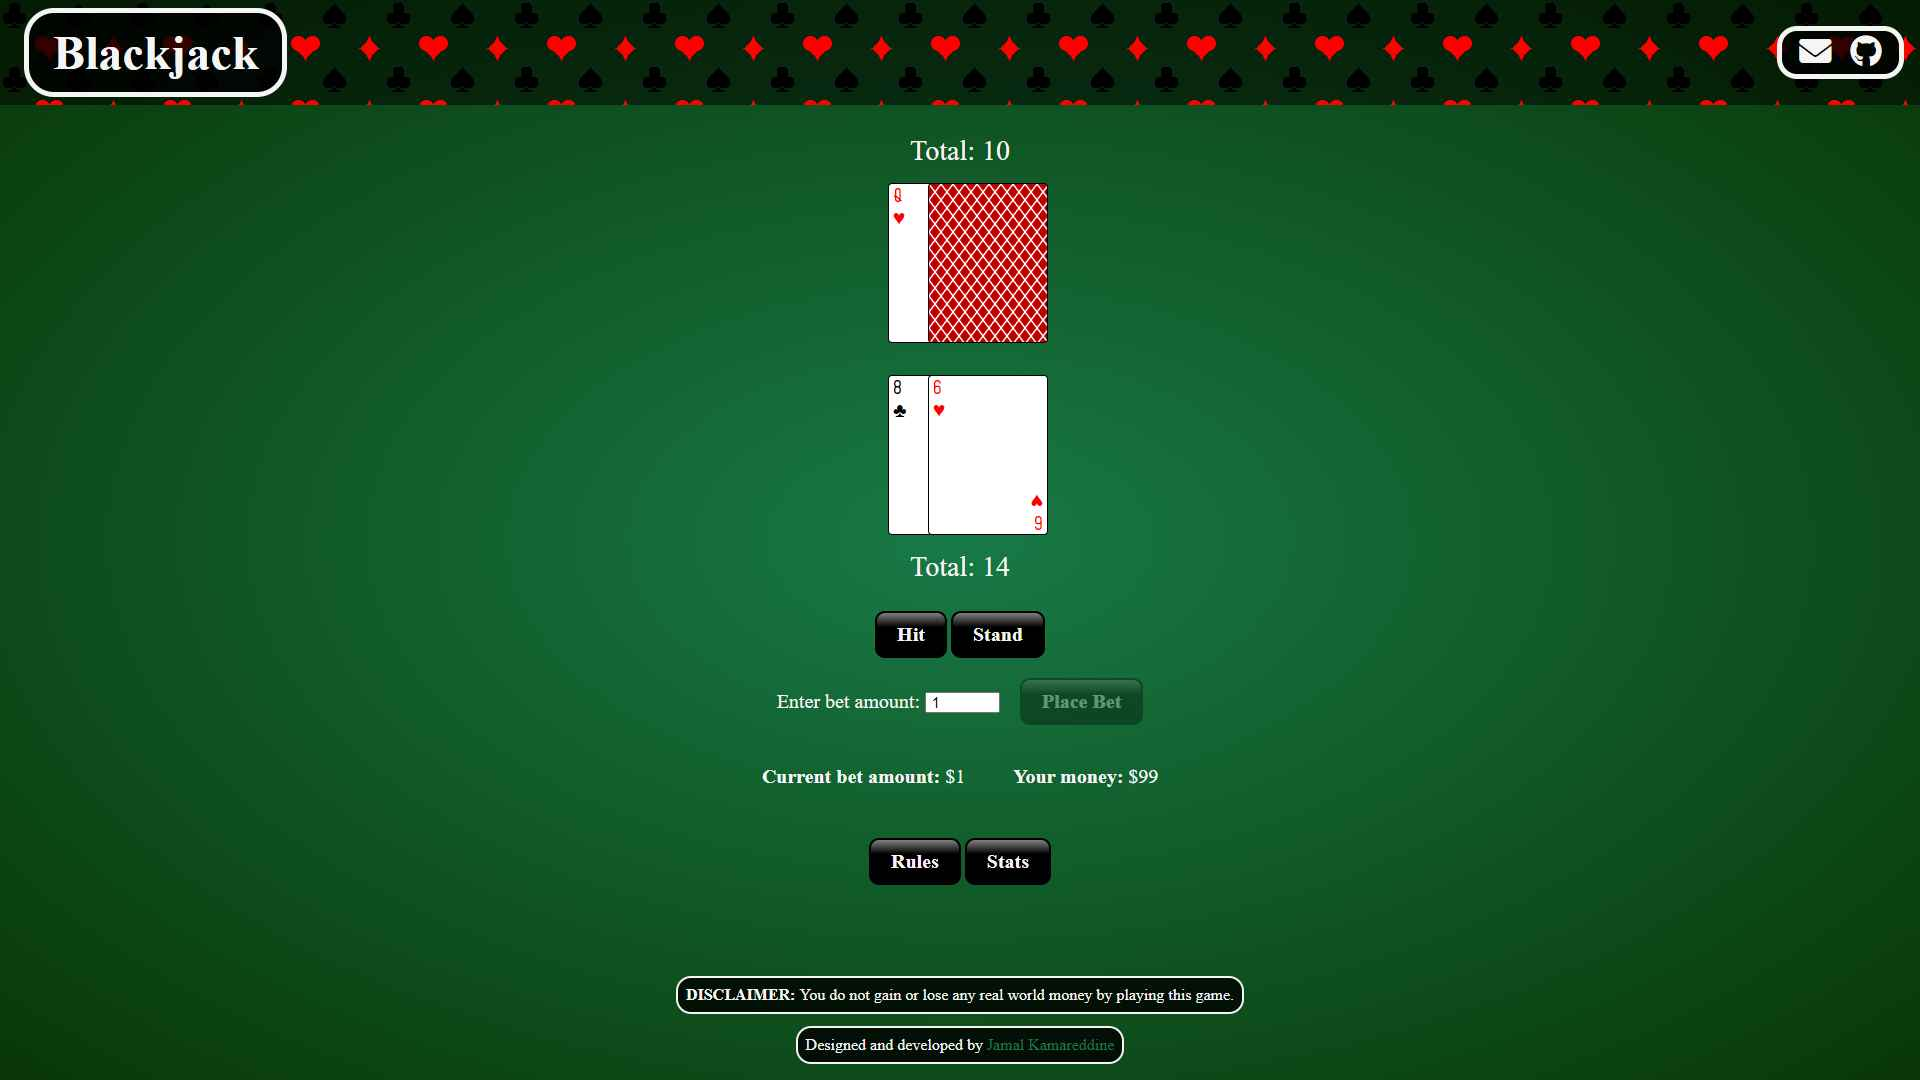
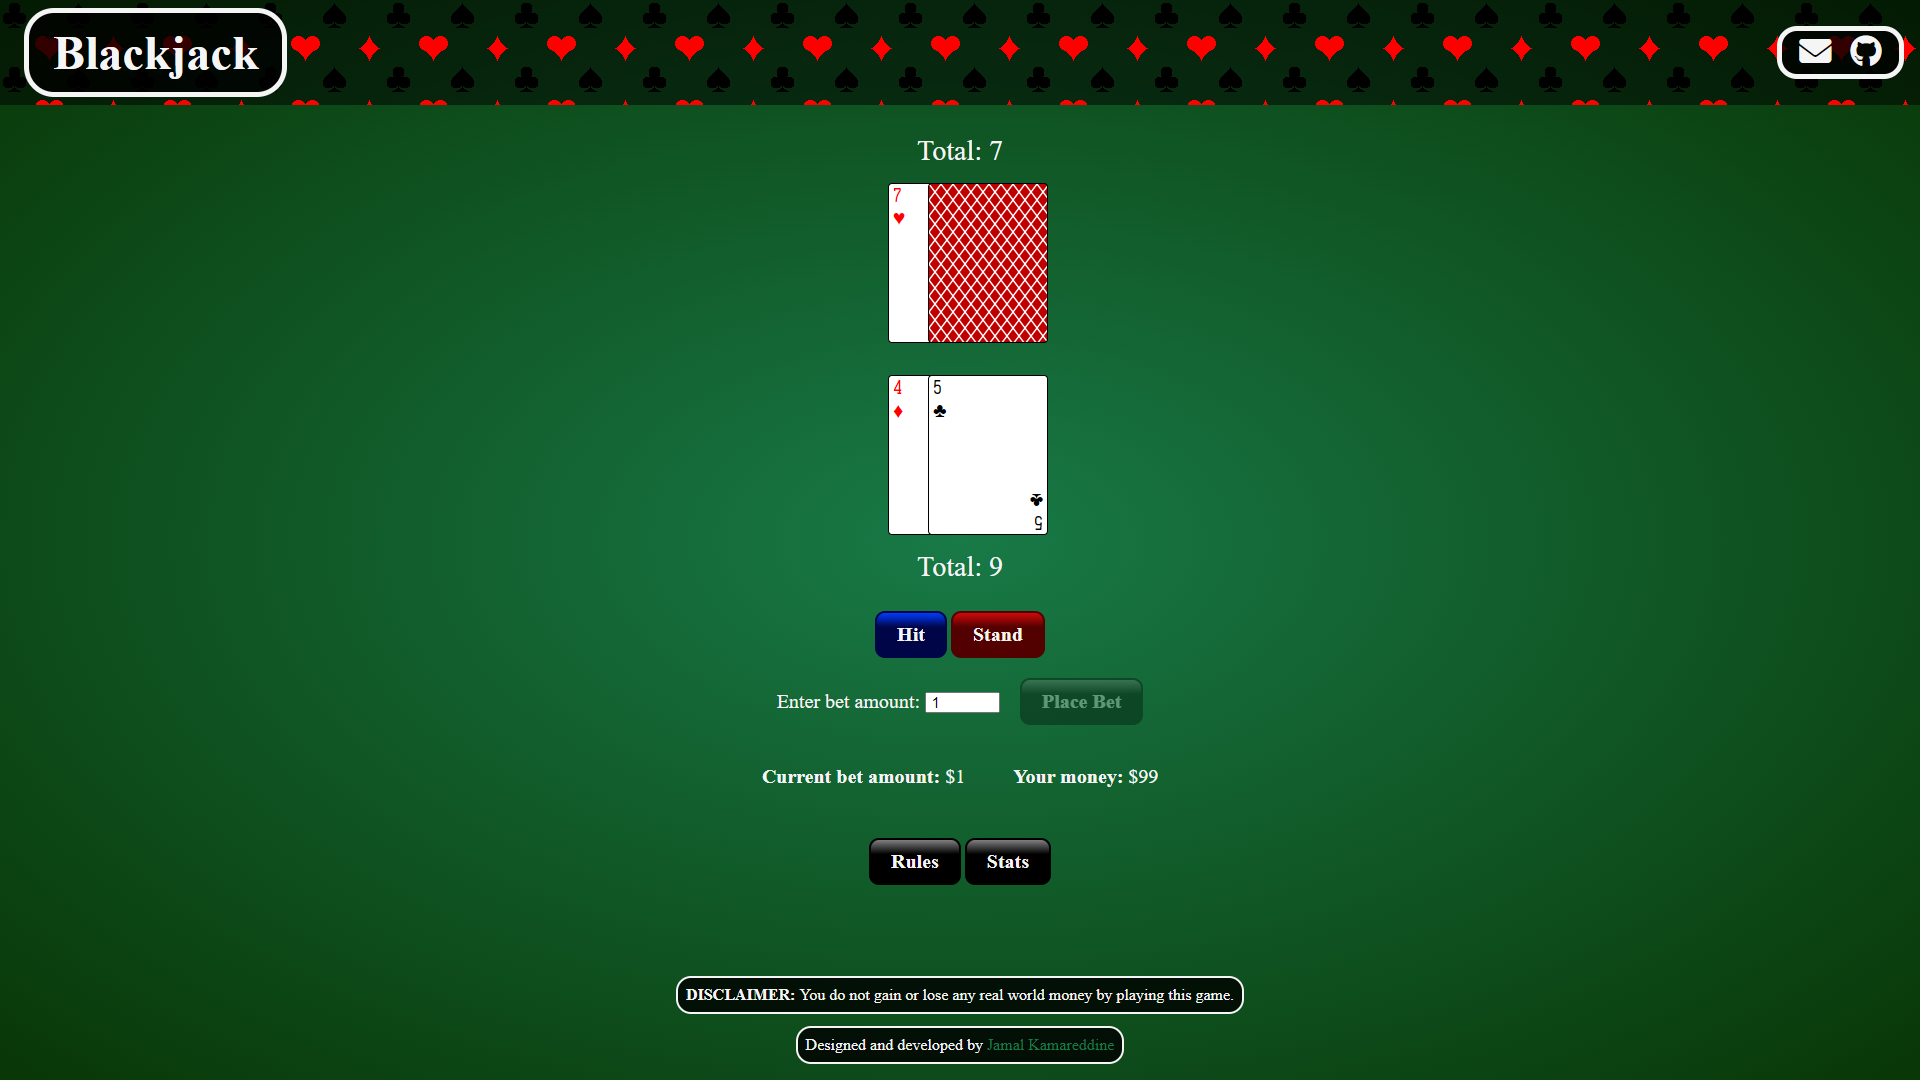
Added button to reset stats, changed color of hit & stand buttons

diff --git a/blackjack/style.css b/blackjack/style.css
@@ -1,6 +1,10 @@
 :root {
     --blackjack-color: #187a47;
     --blackjack-color-dark: #093606;
+    --btn-red: #cf0a0a;
+    --btn-dark-red: #530000;
+    --btn-blue: #003cff;
+    --btn-dark-blue: #000547;
 }
 
 html {
@@ -22,6 +26,16 @@ main {
 h1,
 h2 {
     font-size: 2em;
+}
+
+button {
+    padding: 0.5em 1em;
+    color: var(--off-white);
+    background: linear-gradient(gray, black 33%);
+    border: 2px solid black;
+    border-radius: 10px;
+    font-size: 16px;
+    font-weight: bold;
 }
 
 header {
@@ -73,14 +87,6 @@ header li a:hover,
 #section-1 {
     text-align: center;
     color: var(--off-white);
-}
-
-#section-1 button {
-    color: var(--off-white);
-    background: linear-gradient(gray, black 33%);
-    border: solid black 2px;
-    border-radius: 10px;
-    font-weight: bold;
 }
 
 #game-area {
@@ -162,15 +168,21 @@ header li a:hover,
 
 #hit-btn,
 #stand-btn {
-    padding: 0.5em 1em;
-    font-size: 16px;
     opacity: 0.33;
     pointer-events: none;
 }
 
+#hit-btn {
+    border-color: var(--btn-dark-blue);
+    background: linear-gradient(var(--btn-blue), var(--btn-dark-blue) 33%);
+}
+
+#stand-btn {
+    border-color: var(--btn-dark-red);
+    background: linear-gradient(var(--btn-red), var(--btn-dark-red) 33%);
+}
+
 #new-game-btn {
-    padding: 0.5em 1em;
-    font-size: 16px;
     display: none;
 }
 
@@ -187,13 +199,6 @@ input {
     padding-left: 0.3em;
     width: 5em;
     font-size: 15px;
-}
-
-#bet-btn,
-#rules-btn,
-#stats-btn {
-    padding: 0.5em 1em;
-    font-size: 16px;
 }
 
 #money-info {
@@ -290,18 +295,24 @@ td {
     text-align: left;
 }
 
+#reset-stats {
+    margin-top: 2em;
+    border-color: var(--btn-dark-red);
+    background: linear-gradient(var(--btn-red), var(--btn-dark-red) 33%);
+}
+
 footer {
+    margin-top: 2em;
     color: var(--off-white);
     padding-bottom: 1em;
 }
 
 #disclaimer,
 #bottom-text {
+    margin: 0 auto;
+    padding: 0.5em;
     width: 90%;
     max-width: max-content;
-    margin: 2em auto 0 auto;
-    padding: 0.5em;
-    margin-bottom: 0;
     border: solid var(--off-white) 2px;
     border-radius: 15px;
     background-color: rgba(0, 0, 0, 0.8);
@@ -317,10 +328,7 @@ footer {
 
 /* PC + TABLETS */
 @media (min-width: 481px) {
-    #section-1 button {
-        font-size: 20px;
-    }
-
+    button,
     .card {
         font-size: 20px;
     }

diff --git a/blackjack/src/stats.js b/blackjack/src/stats.js
@@ -3,6 +3,7 @@
 const STATS_BTN = document.getElementById('stats-btn');
 const STATS_MODAL = document.getElementById('stats-modal');
 const STATS_TABLE = document.getElementById('stats');
+const RESET_STATS = document.getElementById('reset-stats');
 
 let stats = {
     wins: {
@@ -73,6 +74,15 @@ function loadStats() {
 }
 
 /**
+ * Resets game stats back to their default values
+ */
+function resetStats() {
+    for (const [key, val] of Object.entries(stats)) {
+        key === 'highestTotalMoney' ? updateStat(key, 100) : updateStat(key, 0);
+    }
+}
+
+/**
  * Updates one of the saved stats
  * 
  * @param {string} stat The stat key to update
@@ -111,6 +121,7 @@ function isStatsModalOpen() {
 
 STATS_BTN.addEventListener('click', openStatsModal);
 CLOSE_BTN[1].addEventListener('click', closeStatsModal);
+RESET_STATS.addEventListener('click', resetStats);
 
 document.addEventListener('keydown', (event) => {
     if (isStatsModalOpen() && event.key === 'Escape') {

diff --git a/blackjack/index.html b/blackjack/index.html
@@ -107,6 +107,7 @@
                                 <td><span id="lost-it-all">0</span> times</td>
                             </tr>
                         </table>
+                        <button id="reset-stats">Reset Stats</button>
                     </div>
                 </div>
             </section>
